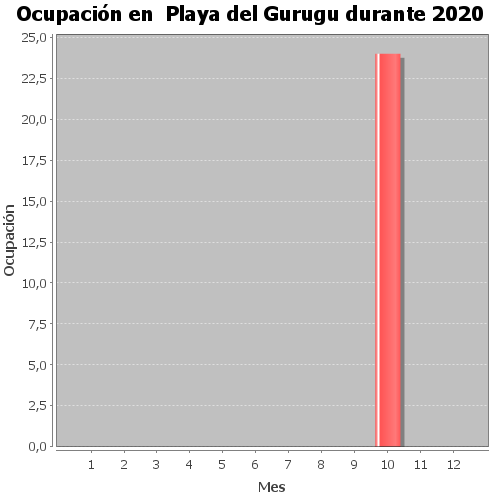
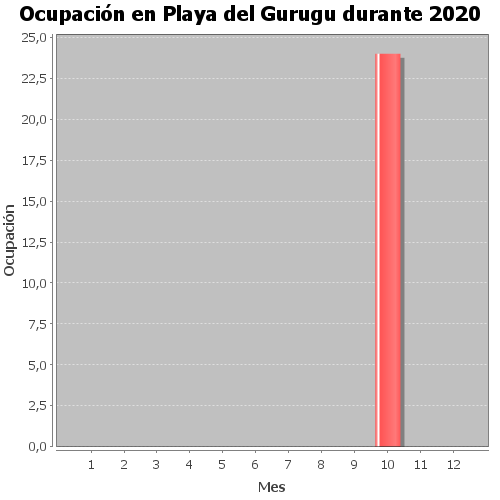
cambio vista mostrar tipo de area o periodo

Changed region(s): [[0.03, 0.0, 0.99, 0.06]]

diff --git a/src/main/resources/templates/occupancy/plotForm.html b/src/main/resources/templates/occupancy/plotForm.html
@@ -8,7 +8,21 @@
     <div class="container">
 
         <h2 class="text-uppercase text-center text-secondary mb-0">Gráfico de ocupación</h2>
-        <br><hr class="barra-normal"><br>
+        <br><hr class="barra-normal">
+
+        <div th:switch="${occupancyFormData.typeOfPeriod.name()}">
+            <td th:case="'daily'">
+                <h4 style="text-align: center"><i>Gráfico por día</i></h4>
+            </td>
+            <td th:case="'monthly'">
+                <h4 style="text-align: center"><i>Gráfico por mes</i></h4>
+            </td>
+            <td th:case="'annual'">
+                <h4 style="text-align: center"><i>Gráfico por año</i></h4>
+            </td>
+        </div>
+
+        <br>
 
     <form class="form-horizontal" action="#" th:action="@{/occupancy/plotForm}"
           th:object="${occupancyFormData}" method="post">
@@ -21,13 +35,7 @@
                 </div>
             </div>
 
-            <div class="form-group row">
-                <label class="control-label col-sm-2" for="typeOfPeriod">Gráfico por:</label>
-                <div class="col-sm-4">
-                    <input type="text" readonly="readonly" required class="form-control" id="typeOfPeriod" th:field="*{typeOfPeriod}" />
-                    <td th:if="${#fields.hasErrors('typeOfPeriod')}" th:errors="*{typeOfPeriod}"></td>
-                </div>
-            </div>
+            <input required type="hidden" th:field ="*{typeOfPeriod}"/>
 
             <div th:if="${occupancyFormData.typeOfPeriod.descripcion == 'Por año' or occupancyFormData.typeOfPeriod.descripcion == 'Por mes'}" class="form-group row">
                 <label class="control-label col-sm-2" for="year">Año:</label>

diff --git a/src/main/resources/templates/naturalArea/update.html b/src/main/resources/templates/naturalArea/update.html
@@ -103,7 +103,10 @@
         <div class="form-group row">
             <label class="control-label col-sm-2" for="typeOfArea">Tipo de área:</label>
             <div class="col-sm-4">
-                <input type="text" readonly="readonly" required class="form-control" id="typeOfArea" th:field="*{typeOfArea}" />
+                <select class="form-control" required id="typeOfArea" type="text" th:field="*{typeOfArea}">
+                    <option th:each="typeOfAreavalue: ${T(es.uji.ei102720mgph.SANA.enums.TypeOfArea).values()}"
+                            th:value="${typeOfAreavalue}" th:text="${typeOfAreavalue.descripcion}"></option>
+                </select>
                 <td th:if="${#fields.hasErrors('typeOfArea')}" th:errors="*{typeOfArea}"></td>
             </div>
         </div>

diff --git a/src/main/java/es/uji/ei102720mgph/SANA/controller/OccupancyFormValidator.java b/src/main/java/es/uji/ei102720mgph/SANA/controller/OccupancyFormValidator.java
@@ -24,13 +24,13 @@ public class OccupancyFormValidator implements Validator {
             errors.rejectValue("typeOfPeriod", "obligatorio", "Es obligatorio introducir el tipo de periodo");
 
         // Si busca por año, nos aseguramos que es valido
-        if (occupancyFormData.getTypeOfPeriod().getDescripcion().equals("Por año") && occupancyFormData.getYear() <= 2017)
-            errors.rejectValue("year", "incorrecto", "El año debe ser posterior a 2017");
+        if (occupancyFormData.getTypeOfPeriod().getDescripcion().equals("Por año") && occupancyFormData.getYear() <= 2019)
+            errors.rejectValue("year", "incorrecto", "El año debe ser posterior a 2019");
 
         // Si busca por mes, nos aseguramos que es valido el año y el mes
         if (occupancyFormData.getTypeOfPeriod().getDescripcion().equals("Por mes")) {
-            if(occupancyFormData.getYear() <= 2017)
-                errors.rejectValue("year", "incorrecto", "El año debe ser posterior a 2017");
+            if(occupancyFormData.getYear() <= 2019)
+                errors.rejectValue("year", "incorrecto", "El año debe ser posterior a 2019");
             if(occupancyFormData.getMonth().getNum() <= 0 || occupancyFormData.getMonth().getNum() > 12)
                 errors.rejectValue("month", "incorrecto", "El mes es incorrecto");
         }

diff --git a/src/main/java/es/uji/ei102720mgph/SANA/services/OccupationSvc.java b/src/main/java/es/uji/ei102720mgph/SANA/services/OccupationSvc.java
@@ -114,7 +114,7 @@ public class OccupationSvc implements OccupationService{
 
         //Generamos el chart
         JFreeChart chart = ChartFactory.createBarChart(
-                "Ocupación en  " + naturalArea + " durante " + year,
+                "Ocupación en " + naturalArea + " durante " + year,
                 "Mes",
                 "Ocupación",
                 dataset,
@@ -147,7 +147,7 @@ public class OccupationSvc implements OccupationService{
 
         //Generamos el chart
         JFreeChart chart = ChartFactory.createBarChart(
-                "Ocupación en  " + naturalArea + " durante " + month + "/" + year,
+                "Ocupación en " + naturalArea + " durante " + month + "/" + year,
                 "Dia",
                 "Ocupación",
                 dataset,
@@ -179,7 +179,7 @@ public class OccupationSvc implements OccupationService{
 
         //Generamos el chart
         JFreeChart chart = ChartFactory.createBarChart(
-                "Ocupación en  " + naturalArea + " durante el día " + day.toString(),
+                "Ocupación en " + naturalArea + " durante el día " + day.toString(),
                 "Hora",
                 "Ocupación",
                 dataset,

diff --git a/src/main/java/es/uji/ei102720mgph/SANA/controller/OccupancyController.java b/src/main/java/es/uji/ei102720mgph/SANA/controller/OccupancyController.java
@@ -13,8 +13,6 @@ import javax.servlet.http.HttpSession;
 import java.time.LocalDate;
 import java.util.ArrayList;
 import java.util.List;
-import java.util.stream.Collectors;
-
 
 @Controller
 @RequestMapping("/occupancy")
@@ -95,7 +93,7 @@ public class OccupancyController {
     @ModelAttribute("yearList")
     public List<Integer> yearList() {
         List<Integer> yearList = new ArrayList<>();
-        for(int i = LocalDate.now().getYear(); i >= 2018; i--)
+        for(int i = LocalDate.now().getYear(); i >= 2020; i--)
             yearList.add(i);
         return yearList;
     }
